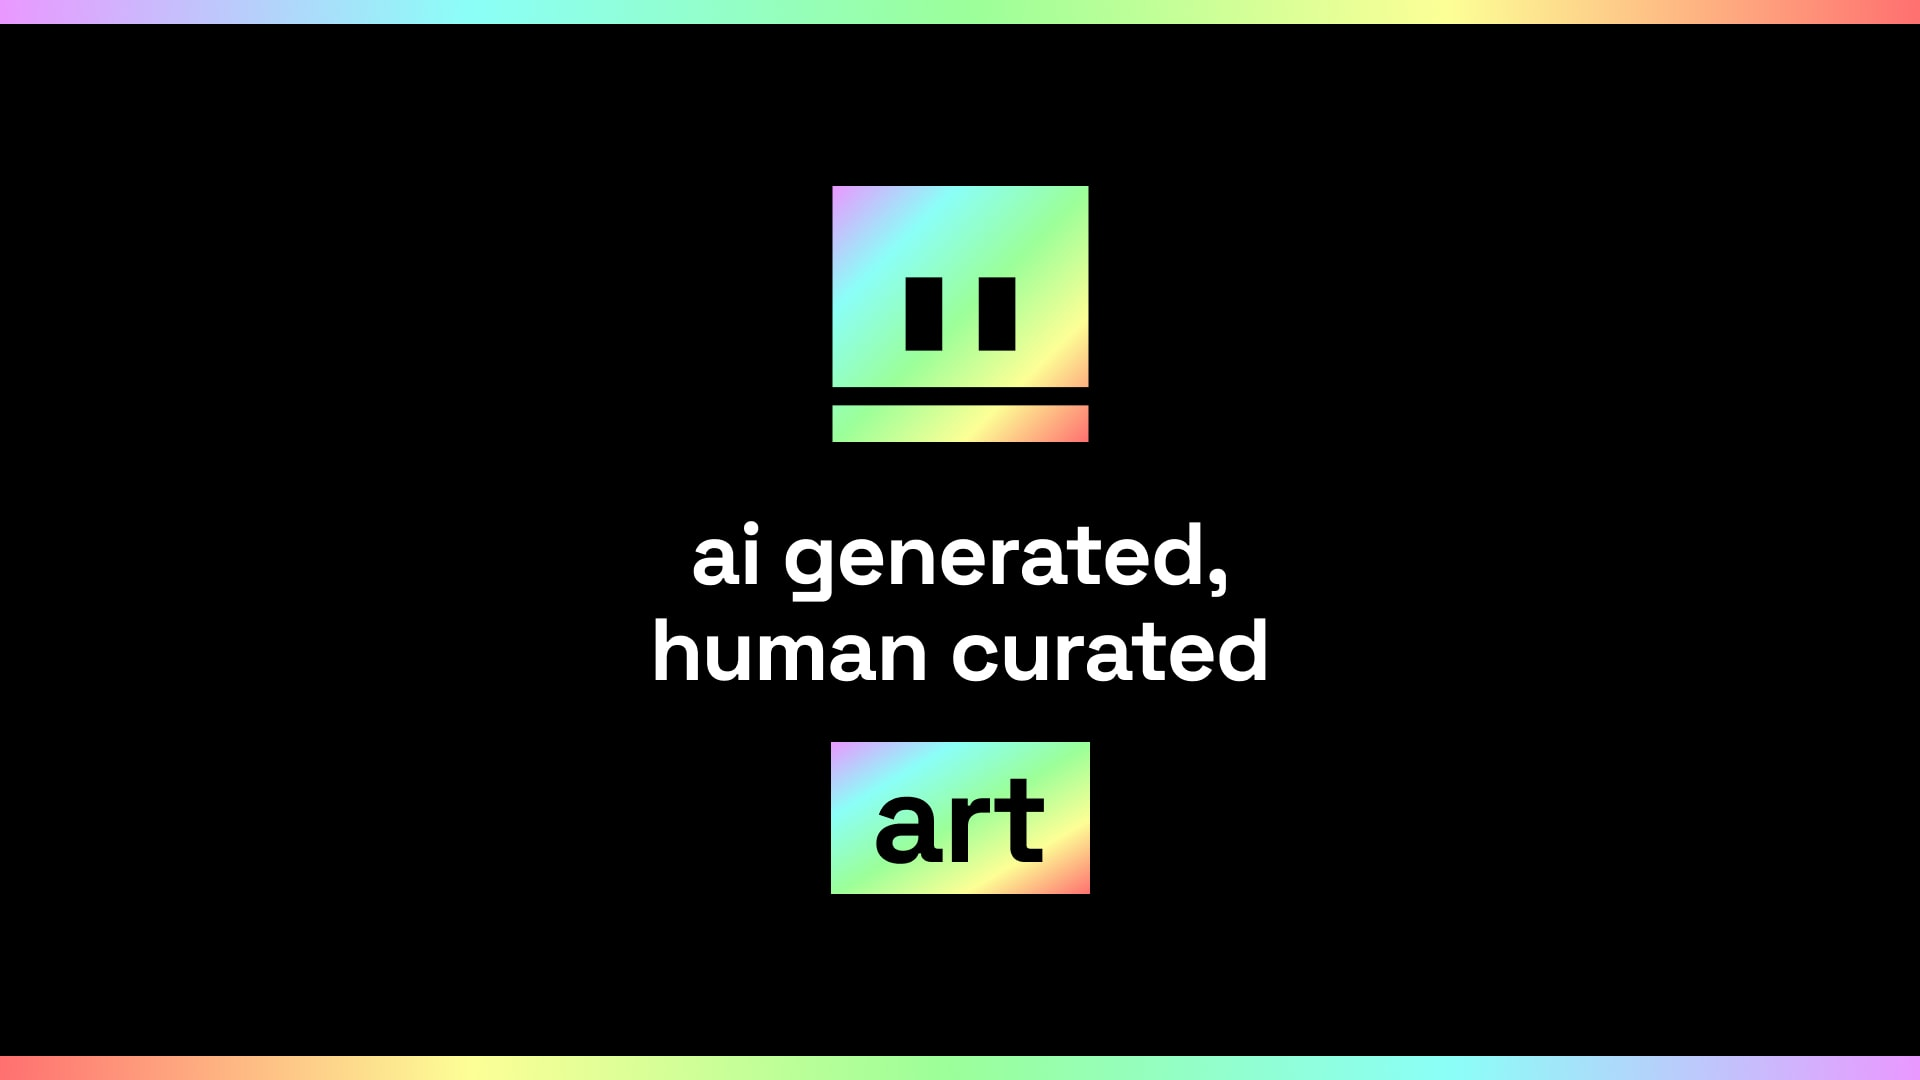
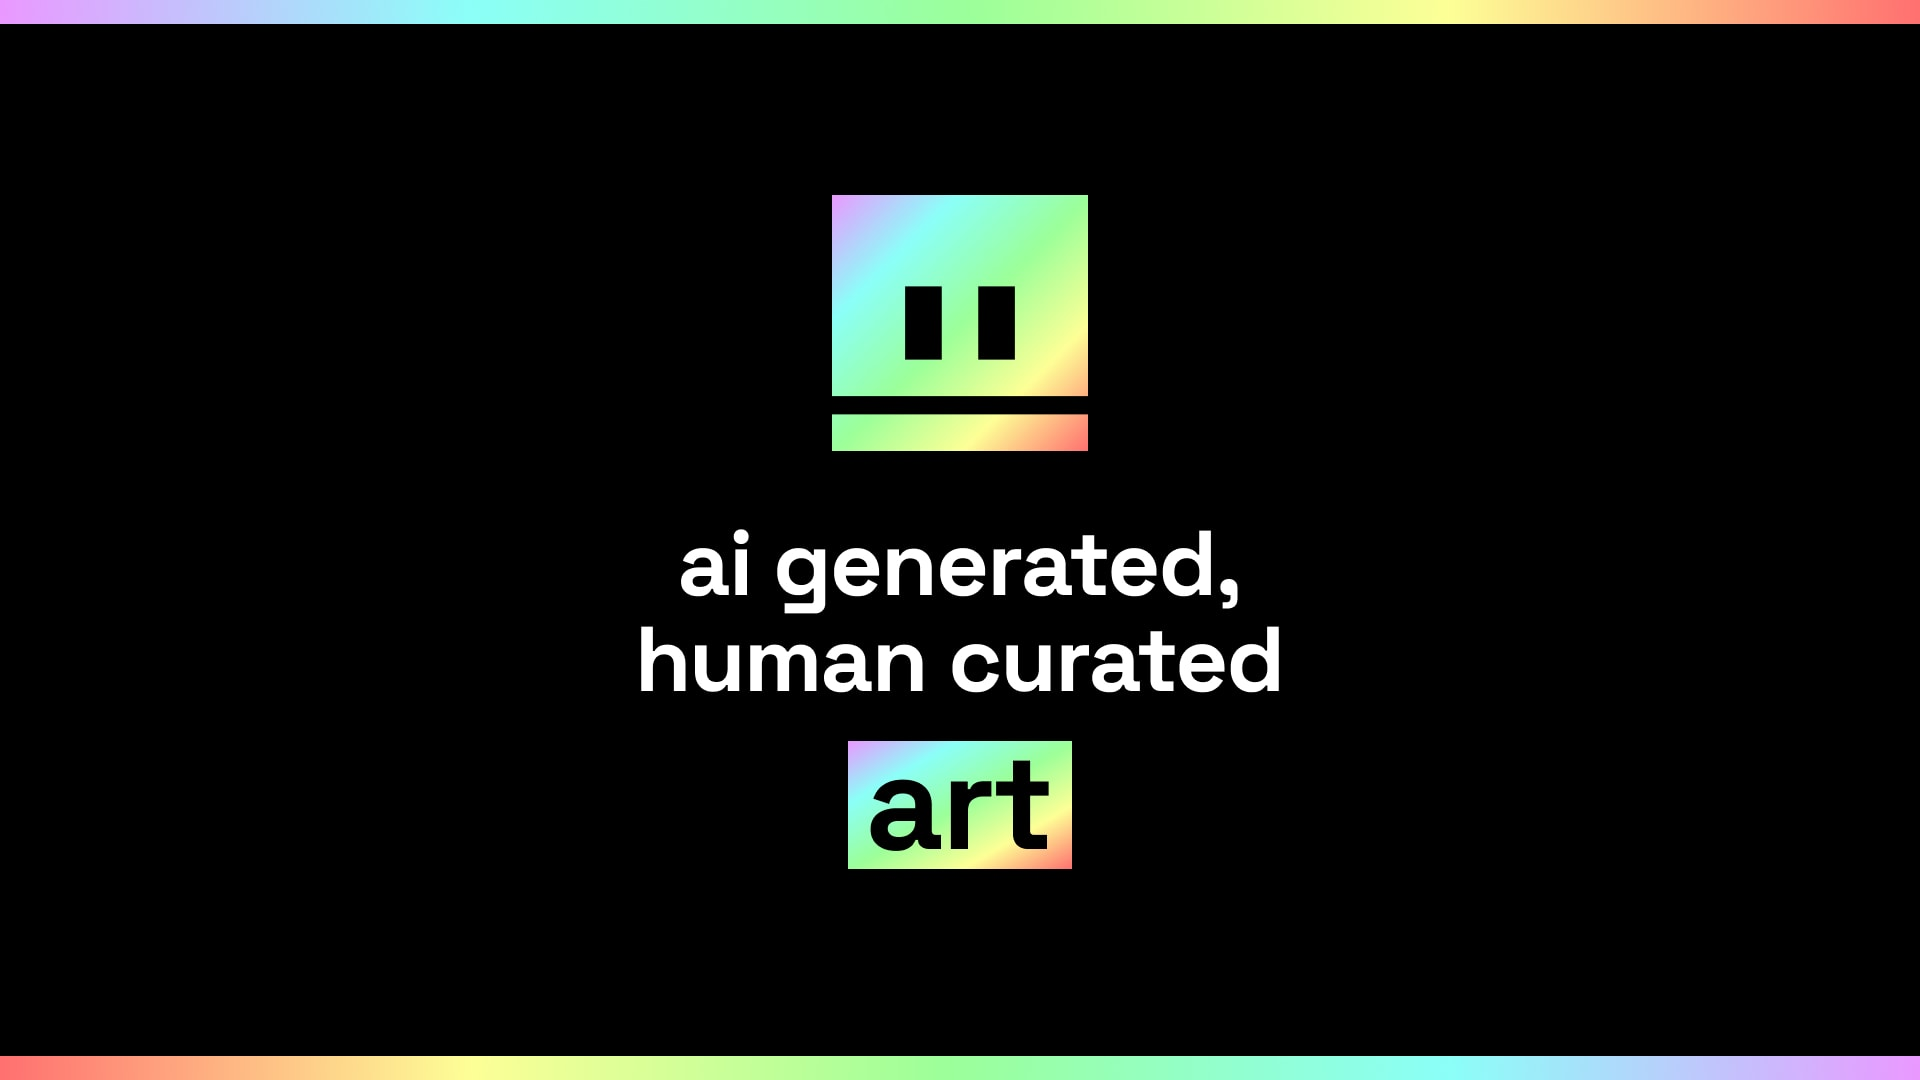
Home preview changed, FullScreenCollectionEntry tweaks

diff --git a/src/lib/components/FullScreenCollectionEntry.svelte b/src/lib/components/FullScreenCollectionEntry.svelte
@@ -65,18 +65,18 @@
 				in:fly|local={{ duration: 350, opacity: 0, easing: quadOut, y: 400 }}
 				out:fly|local={{ duration: 150, opacity: 0, easing: quadOut, y: 0 }}
 				class="{isDescriptionOpen
-					? 'bg-c-bg/75'
+					? 'bg-c-bg/60'
 					: 'bg-c-bg/0'} transition duration-300 w-full absolute bottom-0 left-0 overflow-hidden"
 			>
 				<div class="w-full z-0 relative flex flex-col items-start max-h-full overflow-y-auto">
 					<div
 						on:click={!isDescriptionOpen ? openDescription : undefined}
-						class="w-full px-5 md:px-8 py-4 md:py-6 flex items-center justify-between transition {!isDescriptionOpen
+						class="w-full px-5 md:px-8 py-4 md:py-6 flex items-center justify-between transition bg-c-bg/0 {!isDescriptionOpen
 							? 'group'
 							: ''} {!$isTouchscreen && !isDescriptionOpen
 							? 'hover:cursor-pointer'
 							: ''} {!$isTouchscreen && shouldHideChevron
-							? 'opacity-0 translate-y-4 hover:translate-y-0 hover:opacity-100'
+							? 'opacity-0 translate-y-4 hover:bg-c-bg/30 hover:translate-y-0 hover:opacity-100'
 							: ''}"
 					>
 						<h1

diff --git a/src/lib/components/CollectionsSection.svelte b/src/lib/components/CollectionsSection.svelte
@@ -11,7 +11,7 @@
 <div class="w-full flex flex-col items-center pt-12 pb-16 {classes}">
 	<h2 class="text-3xl md:text-4xl leading-tight md:leading-tight font-bold">collections</h2>
 	<div
-		class="w-full flex flex-row flex-wrap justify-center items-start mt-5 px-2.5 md:px-8 lg:px-12"
+		class="w-full flex flex-row flex-wrap justify-center items-start mt-4 px-2.5 md:px-8 lg:px-12"
 	>
 		{#each collections as collection}
 			<CollectionCard {collection} />

diff --git a/src/routes/+page.svelte b/src/routes/+page.svelte
@@ -27,7 +27,7 @@
 			<br />
 			human curated
 			<br />
-			<div class="text-6xl md:text-7xl text-c-bg inline-block px-3 mt-4 relative overflow-hidden">
+			<div class="text-6xl md:text-7xl text-c-bg inline-block px-3 mt-3 relative overflow-hidden">
 				<div class="absolute -left-1/2 -top-1/2 p-gradient-animation" />
 				<p class="relative">art</p>
 			</div>
